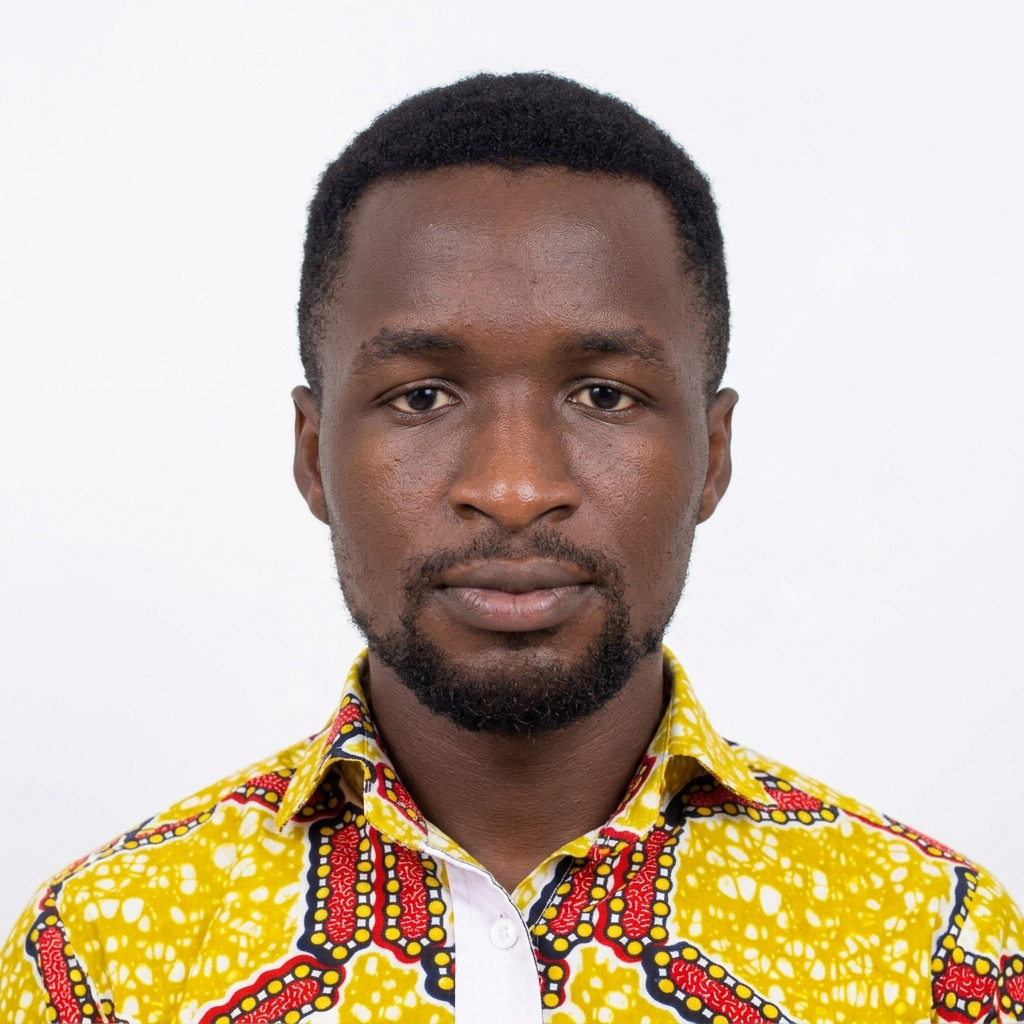
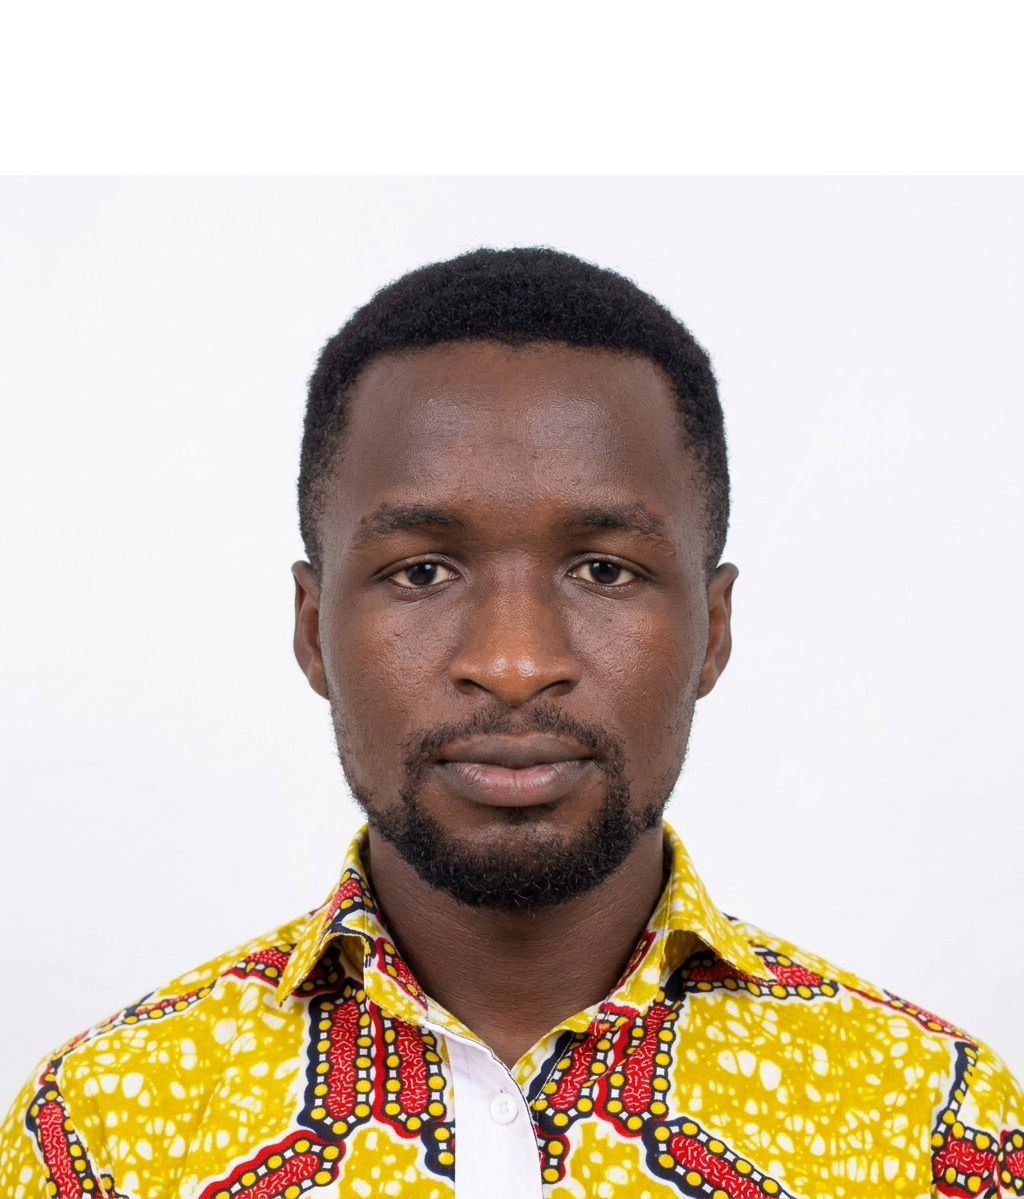
update

diff --git a/src/pages/AboutPage.js b/src/pages/AboutPage.js
@@ -135,32 +135,7 @@ const AboutPage = () => {
 
   return (
     <div className="about-page">
-      {/* Hero Section */}
-      <section 
-        className="hero-section" 
-        style={{ 
-          backgroundImage: "url('https://images.unsplash.com/photo-1522071820081-009f0129c71c?ixlib=rb-4.0.3&auto=format&fit=crop&w=1920&q=80')",
-          backgroundSize: "cover",
-          backgroundPosition: "center",
-          backgroundRepeat: "no-repeat"
-        }}
-      >
-        <div className="container">
-          <div className="hero-section__box">
-            <div className="hero-section__info">
-              <h1 className="page-title page-title_small text-center">
-                Fast Multimedia: Design &amp; Tech Solutions for Your Business
-              </h1>
-              <div className="hero-section__txt text-center">
-                Founded in 2018, Fast Multimedia provides professional design and technical support services. We specialize in high-quality business solutions through a client-focused approach, serving businesses of all sizes.
-              </div>
-              <div className="hero-section__btngroup">
-                <Link to="/contact" className="btn btn-primary btn-primary_arrow">Get Started</Link>
-              </div>
-            </div>
-          </div>
-        </div>
-      </section>
+      
 
       {/* Expertise Section */}
       <section className="solution-section">
@@ -185,7 +160,7 @@ const AboutPage = () => {
               </div>
             </div>
             <div className="solution-section__img">
-              <img src="https://images.unsplash.com/photo-1561070791-2526d30994b5?ixlib=rb-4.0.3&auto=format&fit=crop&w=800&q=80" alt="Fast Multimedia Studio" />
+              image: '/images/Artboard 4-1.jpg'
             </div>
           </div>
         </div>
